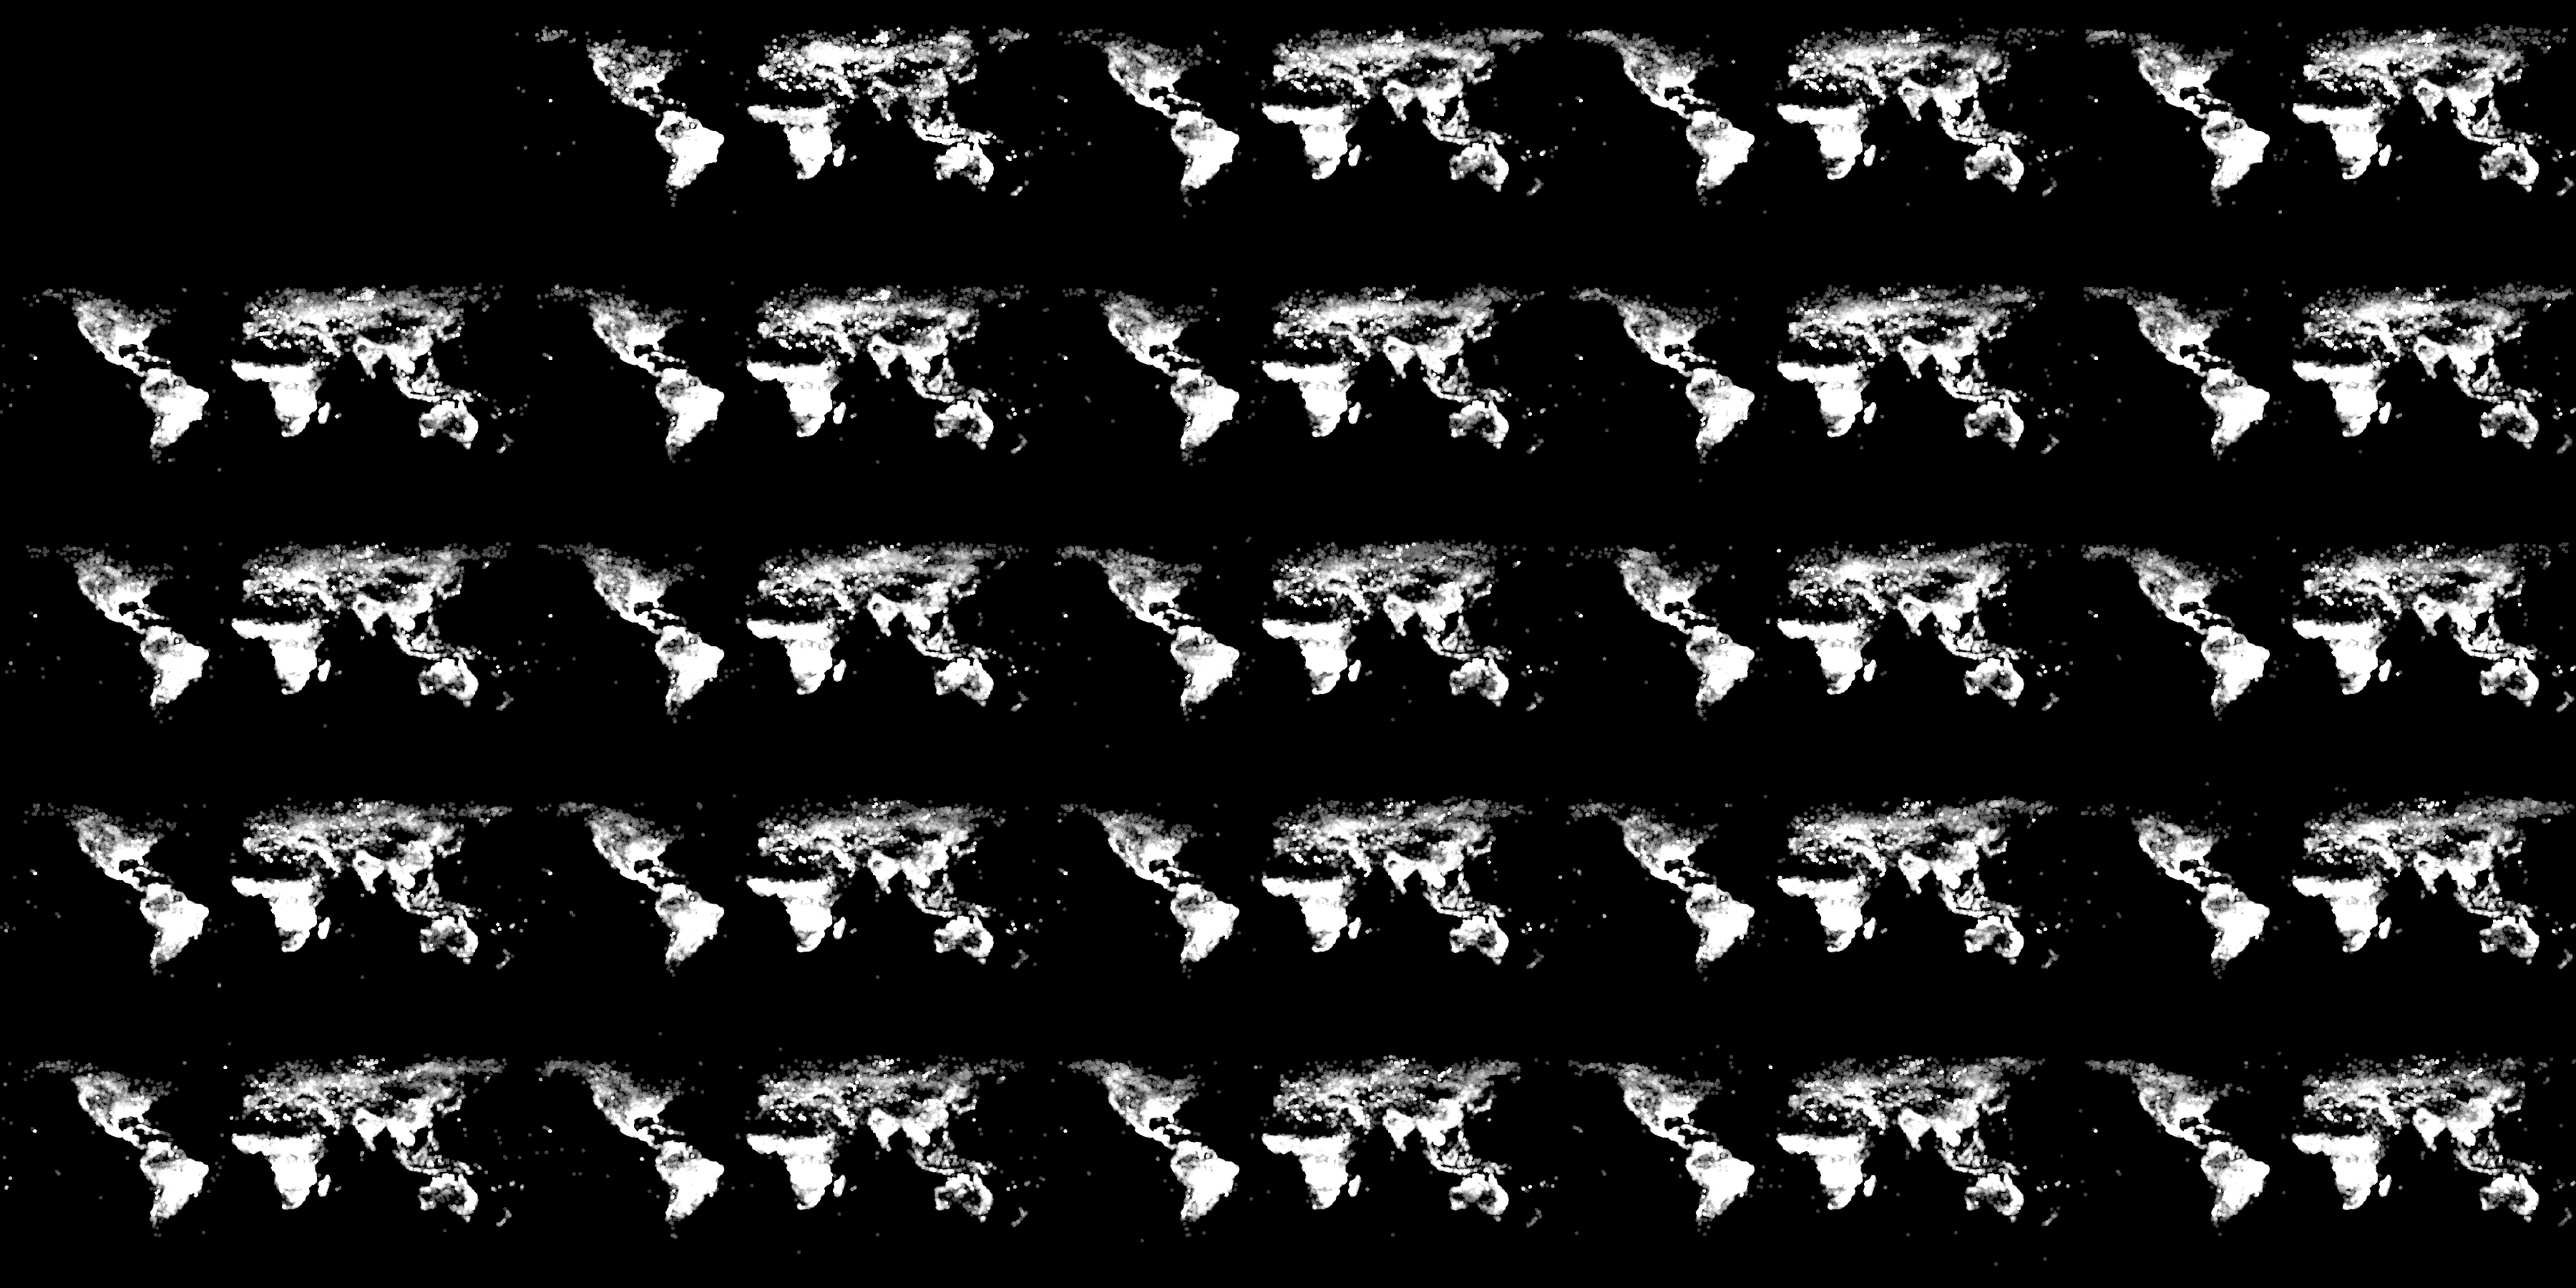
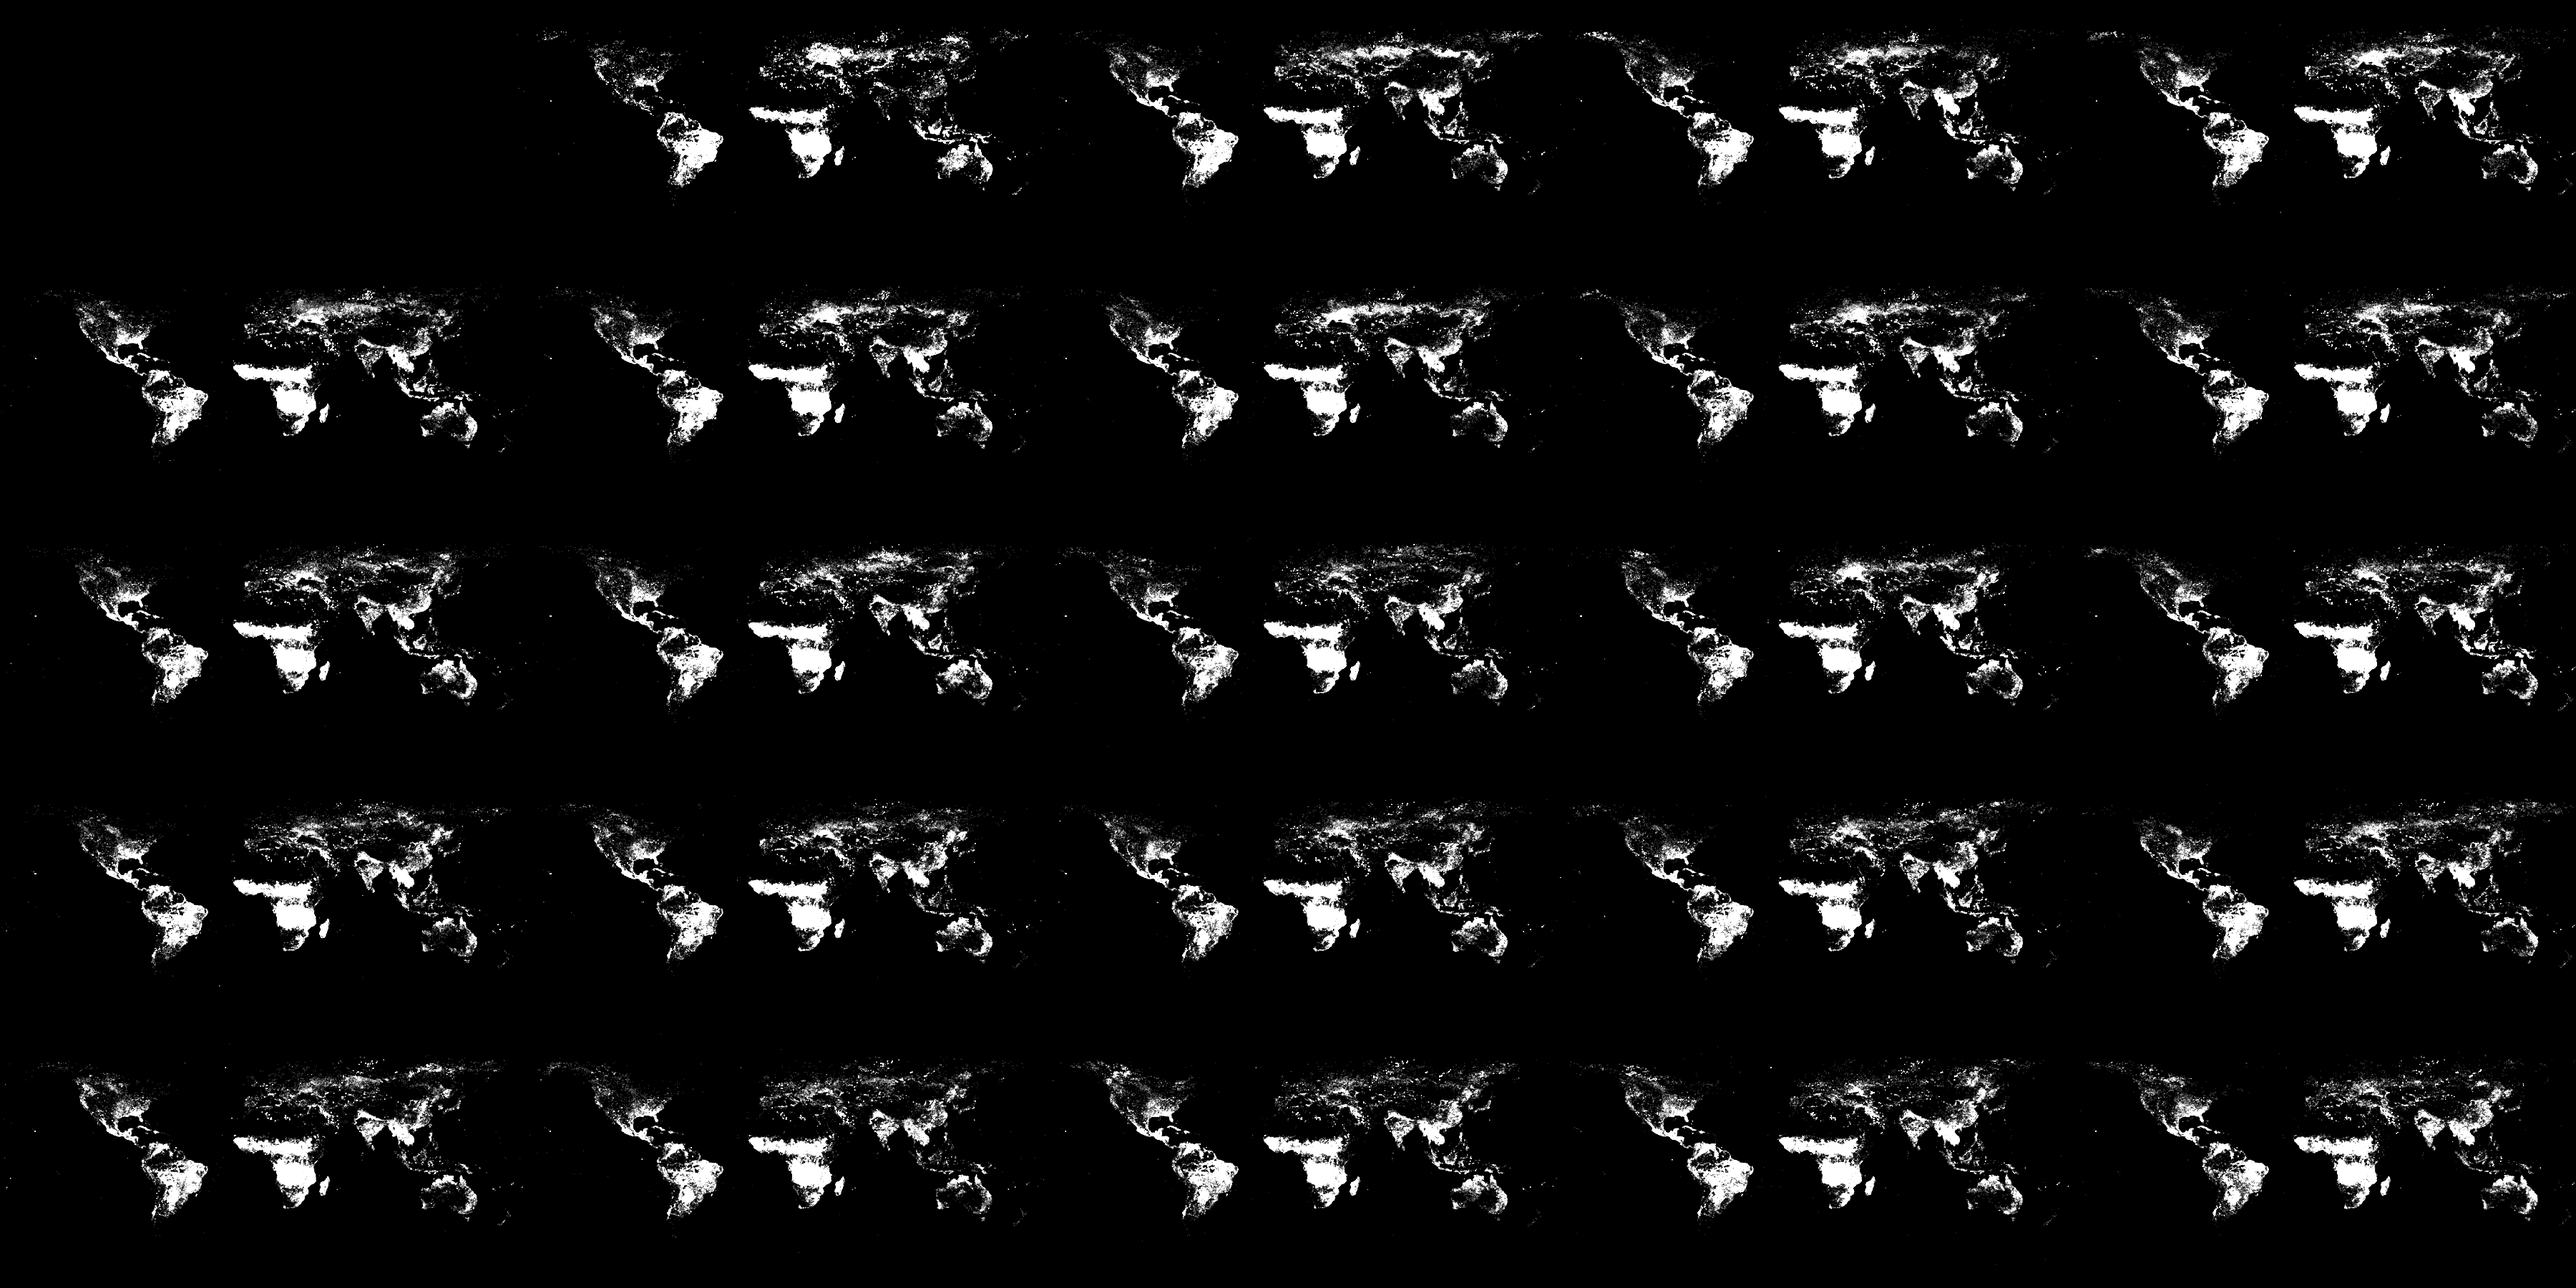
Camadas: nuvens animadas, ozônio e ajustes de queimadas/vegetação
- Nuvens: 16 dias reais (VIIRS) em loop, com transição suave
- Ozônio: buraco antártico 1979-2025 (NASA Ozone Watch), limite de 220 DU
- Queimadas: imagens em 4x a resolução para não saturar o continente
- Vegetação: mês de pico verde em vez da média anual
- Ventos: traços mais longos e brilhantes; README/CONTRIBUTING atualizados

diff --git a/js/globe.js b/js/globe.js
@@ -217,10 +217,11 @@ function init() {
            * (1.0 - clamp(flood, 0.0, 1.0) * 0.85)   // cidades inundadas apagam
            * (1.0 - ice);
 
-      // --- 🔥 queimadas: brilho laranja que tremula (visível de dia e de noite)
-      float fire = atlas(uFireTex, uFireGrid, uFireF).r;
-      float flicker = 0.75 + 0.25 * sin(uTime * 7.0 + hash(floor(vUv * 720.0)) * 30.0);
-      col += vec3(1.0, 0.42, 0.08) * fire * flicker * uFireOn * 1.6;
+      // --- 🔥 queimadas: brasas que tremulam; só fogo frequente, mais forte no lado da noite
+      float fire = smoothstep(0.3, 0.9, atlas(uFireTex, uFireGrid, uFireF).r);    // ignora focos raros
+      float flicker = 0.7 + 0.3 * sin(uTime * 7.0 + hash(floor(vUv * 720.0)) * 30.0);
+      float night = 1.0 - smoothstep(0.0, 0.3, dayAmt);
+      col += vec3(1.0, 0.38, 0.06) * fire * flicker * uFireOn * (0.45 + 1.4 * night);
 
       // --- 🛡 buraco de ozônio: abaixo de 220 DU (definição oficial de "buraco") fica roxo;
       //     entre 240 e 220 DU vai aparecendo em azul. Visível de dia e de noite.

diff --git a/scripts/build_layers.py b/scripts/build_layers.py
@@ -324,23 +324,27 @@ def build_fire():
     for y in years:
         d = dt.date(y, 1, 1)
         while d.year == y:
-            dest = CACHE / "gibs" / "fire" / f"{d}.png"
-            jobs.append((GIBS_WMS.format(w=720, h=360, fmt="image/png",
+            # 4x a resolução final: o servidor desenha cada foco como um círculo de tamanho fixo em
+            # pixels; em 720 px cada círculo cobria ~50 km e o ano somado "pintava" o continente todo.
+            dest = CACHE / "gibs" / "fire2880" / f"{d}.png"
+            jobs.append((GIBS_WMS.format(w=2880, h=1440, fmt="image/png",
                                          layer="MODIS_Combined_Thermal_Anomalies_All", time=d), dest))
             by_year[y].append(dest)
             d += dt.timedelta(days=8)
     download_many(jobs, "queimadas")
     counts = []
     for y in years:
-        c, n = np.zeros((360, 720), "f4"), 0
+        c, n = np.zeros((1440, 2880), "f4"), 0
         for p in by_year[y]:
             im = open_png(p)
             if im is None:                                      # dia sem dado no servidor: pula
                 continue
             c += np.asarray(im)[..., 3] > 0
             n += 1
+        c = c.reshape(360, 4, 720, 4).mean(axis=(1, 3))         # reduz 4x4 -> 720x360 (média)
         counts.append(c / max(n, 1))                            # fração dos dias amostrados com fogo
-    frames = [(np.clip(np.sqrt(c / 0.35), 0, 1) * 255).astype(np.uint8) for c in counts]
+    # 10% ou mais dos dias com fogo = intensidade máxima
+    frames = [(np.clip(c / 0.10, 0, 1) * 255).astype(np.uint8) for c in counts]
     info = write_atlas("fire", frames, "L", 5)
     return {**info, "frames": {"hist": [years[0], years[-1], 0, 1]},
             "source": "NASA GIBS — MODIS Terra+Aqua Thermal Anomalies (amostra a cada 8 dias)"}

diff --git a/README.md b/README.md
@@ -21,7 +21,12 @@ Terra renderizada com **three.js** e texturas reais da NASA (Blue Marble de dia,
 | 🌃 Luzes | Luzes das cidades no lado noturno, acendendo com a industrialização | NASA Black Marble |
 | 🌊 Inundação | Áreas costeiras baixas inundando conforme o mar sobe (exagero vertical p/ escala global) | Relevo real + nível do mar NASA |
 | 🧊 Gelo | Calota ártica com borda irregular, dimensionada pela extensão real medida por satélite | NSIDC Sea Ice Index |
-| 🌡 Calor | Tinta térmica e atmosfera avermelhada conforme a anomalia de temperatura | NASA GISTEMP |
+| 🌡 Calor | Mapa real da anomalia de temperatura por região, ano a ano (média móvel de 5 anos) | NASA GISTEMP (até 2025) + modelo GISS-E2.1-G (projeção) |
+| ☁ Nuvens | 16 dias seguidos de nuvens reais, em loop | NASA GIBS — VIIRS cor real |
+| 🌿 Vegetação | Mês de pico verde de cada ano, 2001–2025 | NASA GIBS — MODIS NDVI |
+| 🔥 Queimadas | Onde o fogo é frequente em cada ano, 2001–2025 | NASA GIBS — MODIS Thermal Anomalies |
+| 🌬 Ventos | Partículas seguindo o vento médio de cada década, por cenário | Modelo GISS-E2.1-G (uas/vas) |
+| 🛡 Ozônio | Buraco de ozônio na Antártida (abaixo de 220 DU), set–out de cada ano, 1979–2025 | NASA Ozone Watch (TOMS, OMI) |
 
 ### Camadas de áudio (cards à direita)
 
@@ -55,6 +60,8 @@ data/projections.js         projeções por cenário SSP (GERADO pelo script)
 data/provenance.json        fonte e ajustes de cada série (GERADO pelo script)
 assets/textures/            texturas NASA (Blue/Black Marble, relevo, oceanos)
 scripts/fetch_nasa_data.py  pipeline: baixa os dados da NASA e gera os arquivos de data/
+scripts/build_layers.py     gera as texturas das camadas (assets/layers/) e data/layers.js
+assets/layers/              texturas das camadas (GERADAS pelo script)
 ```
 
 ## Dados
@@ -96,6 +103,15 @@ python -m venv .venv
 ```
 
 Na primeira execução, ~350 MB de saídas do modelo são baixados para `data/cache/` (ignorado pelo git). Para o nível do mar observado, defina `EARTHDATA_TOKEN` com um token de https://urs.earthdata.nasa.gov antes de rodar. Se uma fonte falhar, a série mantém os valores atuais e o motivo é impresso.
+
+### Camadas do globo
+
+```
+.venv\Scripts\python scripts/build_layers.py              (todas)
+.venv\Scripts\python scripts/build_layers.py ozone fire   (só algumas)
+```
+
+Gera as texturas em `assets/layers/` (atlas: um quadro por ano lado a lado) e os metadados em `data/layers.js`. Baixa ~2 GB na primeira vez (cache em `data/cache/`). Camadas sem dado num ano (ex.: vegetação antes de 2001, ozônio em 1995) somem suavemente.
 
 ## Créditos
 

diff --git a/CONTRIBUTING.md b/CONTRIBUTING.md
@@ -28,6 +28,7 @@ Ninguém faz commit direto na `main`.
 | Gráfico 2D | `js/chart.js` |
 | Botões, textos e eventos | `js/main.js`, `index.html` |
 | Visual (cores, layout) | `css/style.css` |
+| Texturas das camadas | `scripts/build_layers.py` (gera `assets/layers/`) |
 | Dados (todos) | `scripts/fetch_nasa_data.py` (gera os arquivos de `data/`) |
 | Regra de dados | só fontes abertas da NASA (ver README, seção Dados) |
 
